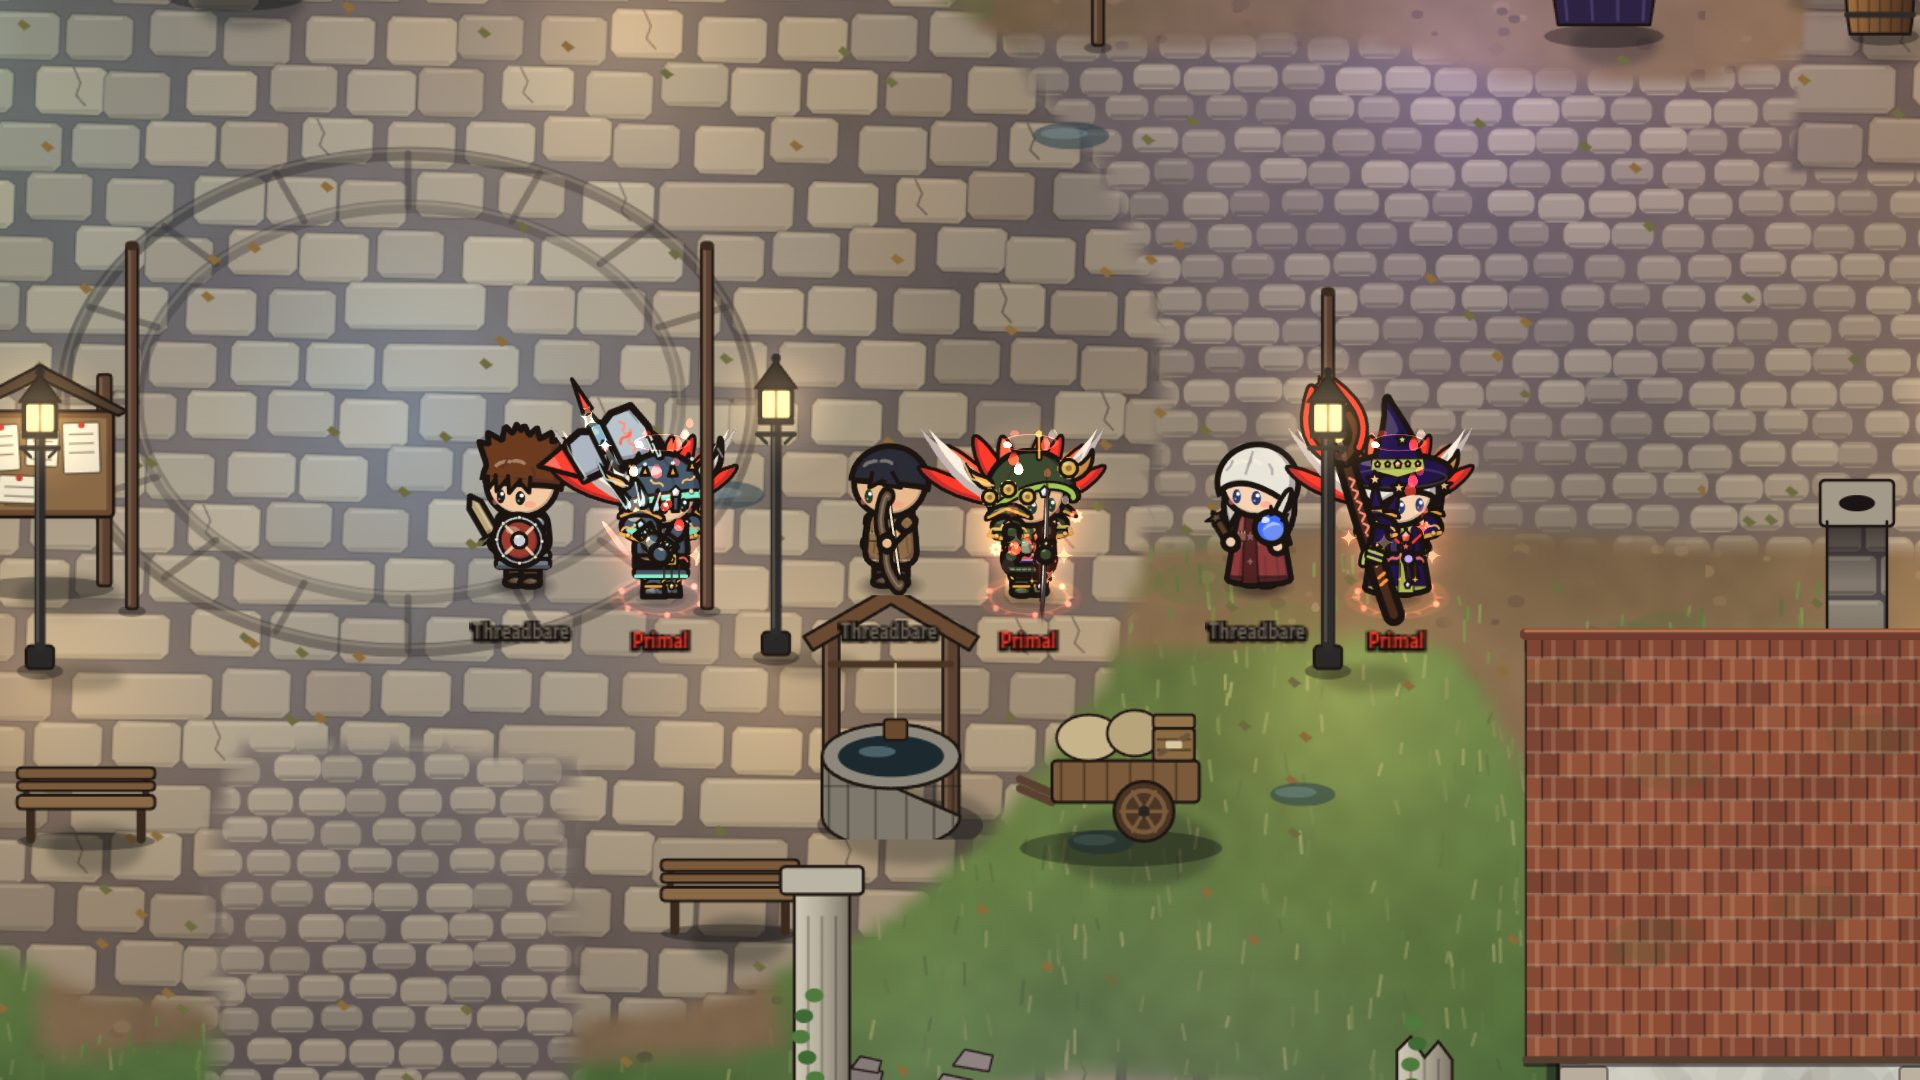
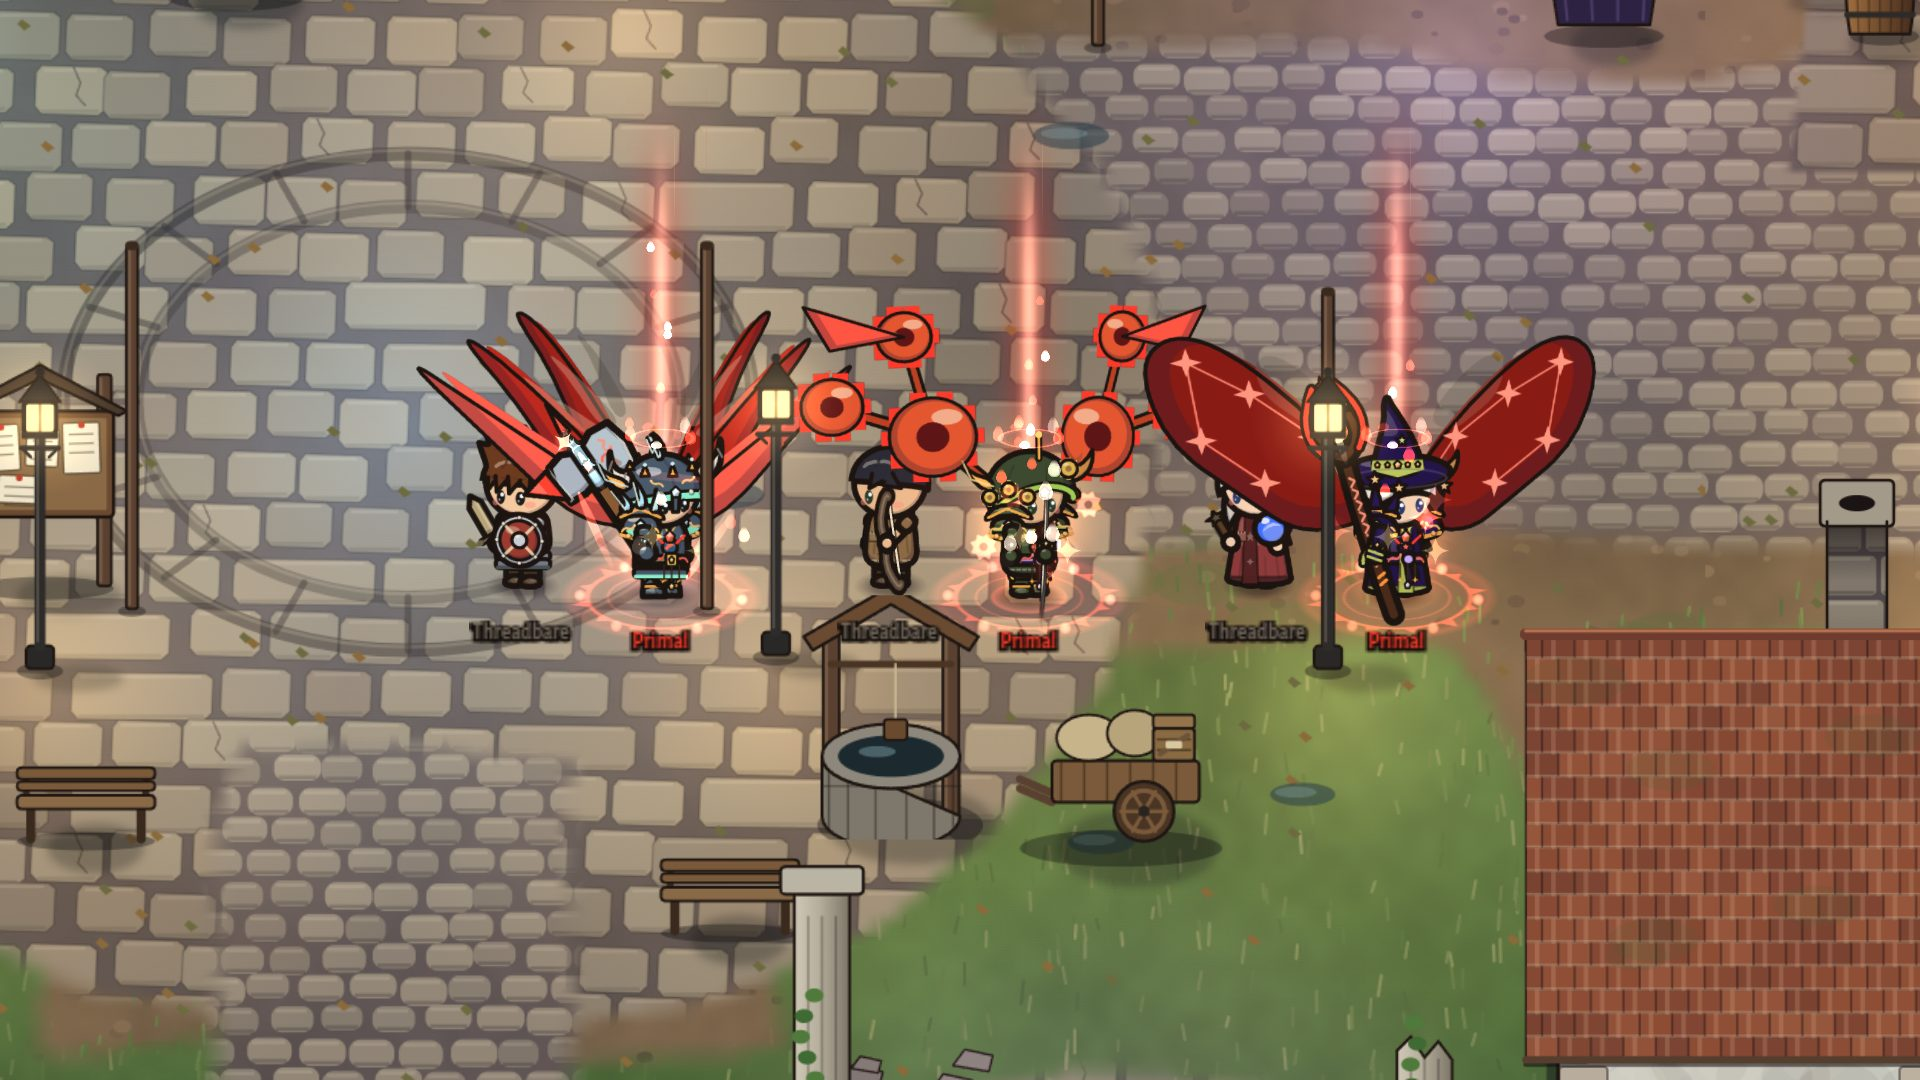
docs(gear): spectacle pass evidence - two clients, field telegraphs, extents, perf
- shots: duo-town (level-1 newcomer beside a Primal veteran, two real
  clients, default camera), duo-edge, duo-rankup, field-telegraphs,
  field-boss; gallery shots retaken with the final visuals (JPEG <= 340 KB)
- LOG G5-G12: measured extents before/after (Primal 187-199 x 280 px vs
  67-76 x 93-123 before; wing span 3.13-3.67x body width), bake probe,
  perf table (30 all-Primal 117-125 fps; 100 heroes rows)
- DESIGN section 7 (spectacle rules), DECISIONS D11-D15

Changed region(s): [[0.2188, 0.1528, 0.8438, 0.6111]]

diff --git a/docs/rework/gear/LOG.md b/docs/rework/gear/LOG.md
@@ -44,3 +44,51 @@ Worktree `C:\Users\LaptopJente\hearthfall-gear`, branch `claude/gear`; server :2
   the old looks (the crowd budget already thins particles; "reduced" for others brings it back to parity). Warm-up:
   100 unique looks appearing in one frame stall for several seconds while sheets bake (as before; the in-game
   scene adds heroes gradually and caches crowded-town poses).
+
+## Spectacle pass (lead review 2026-10-11)
+
+- **G5 — integrated base.** Merged `claude/town-ui-rework` (55b8f78, later 8dcde16) into `claude/gear`; the lead's
+  resolutions of inspect / settings / index / main kept as they were.
+- **G6 — presence at distance.** Wings baked at rank-scaled size (rank 7 1.62×, 8 1.98×, Primal 2.58× the base drawing;
+  Sets keep their silhouette when Primal), capes +14 %/rank, sigil 40→82 u by rank, light column 230 u for rank 8+
+  (saturated normal-blend outer + additive core so it reads on bright stone; first version was invisible above the wings
+  because its strength faded too early — measured with a forced-green probe and a lossless crop, then fixed), afterimage
+  ribbon, larger orbiters, brighter swing trails with tip sparks, nameplate glow pill (6+) and animated crown (8+).
+  **Measured extents** (`gallery-art.html?view=gear-measure`, px at the default camera, yaw 65; visible = alpha > 0.16,
+  includes the column; body = hero without weapon / off-hand / back / effects):
+
+  | stage | before (legacy) visible | after visible | after solid | wing span / body width |
+  |---|---|---|---|---|
+  | starter (all classes) | 50–65 × 89–101 | same | same | — |
+  | L70 (rank 6) | 67–76 × 93–126 | 74–96 × 109–131 | 73–92 × 100–130 | — (cape) |
+  | full Set (rank 7) | 68–76 × 93–123 | 126–131 × 146–157 | 120–124 × 145–156 | 1.94–2.31 |
+  | Ancient Set (rank 8) | 67–76 × 93–123 | 145–153 × 274 | 143–152 × 233 | 2.40–2.80 (yaw 25: 2.21–2.46) |
+  | Primal Set (rank 9) | 67–76 × 93–123 | 187–199 × 280 | 187–197 × 244 | 3.13–3.67 (yaw 25: 2.88–3.17) |
+
+  Targets met: span ≥ 2.2× body width at rank 8 and ≥ 2.6× with a Primal at both measured yaws; sigil ≥ 1.8× the shadow
+  from rank 7 (64 u vs 34 u).
+- **G7 — readability.** Every ground effect moved to a scene underlay beneath the telegraph layer and dims 45 % while the
+  hero fights. Evidence: `shots/field-telegraphs.jpg` (an elite's warning ring stays crisp beside a Primal veteran),
+  `shots/field-boss.jpg` (rift guardian fight).
+- **G8 — the moment.** Rank-up / first full Set: notice (level banner), procedural chime, 1.5 s burst (rings, column,
+  fountain, wing flare) — `shots/duo-rankup.jpg`. Primal drops get their own stinger.
+- **G9 — known problems fixed.** Two-handed idle rests the weapon at the side; next-step hints from the worn gear
+  (`gearNextSteps`, tested); shoulder icons show pauldron ornaments; budgeted bakes (below).
+- **G10 — bakes.** In-game heroes bake on the GPU within 4 ms per frame (placeholder / previous sheet meanwhile).
+  Probe with 100 never-seen heroes appearing in one frame: synchronous vector build 1,359 ms in that frame → none (the
+  remaining first-frame cost is the town NPCs' existing bake); bake work per frame ≤ 4 ms (single-part outliers ≤ 40 ms)
+  instead of 25 ms chunks plus a 2.1 s first chunk; the crowd pops in over ~20–30 s instead of freezing.
+- **G11 — evidence with two real clients.** `scripts/gear-duo.mjs` drives a second client in its own headless window
+  (`api.newClient()` in `shoot.mjs`): `shots/duo-town.jpg` (level-1 newcomer next to a Primal veteran, default camera),
+  `shots/duo-edge.jpg` (veteran at the screen edge), `shots/duo-rankup.jpg`. Debug-only `showcase` op equips the
+  ladder stages. Note: a long-running Vite served a stale transform of `gearVisual.ts` to a fresh tab (missing export);
+  restarting Vite with a clean cache fixed it.
+- **G12 — performance** (perf gallery, visible tab, no monsters, every hero a unique look, after bakes finished):
+
+  | case | before (legacy looks) | after |
+  |---|---|---|
+  | 30 heroes, all Primal, full | 145–163 fps | 117–125 fps (p95 frame 8.8–12.2 ms) |
+  | 30 heroes, mixed stages, full | 145–163 fps | 147–157 fps (p95 frame 12.1 ms) |
+  | 100 heroes, mixed stages, full | 54–68 fps | 54–55 fps |
+  | 100 heroes, all Primal, full | 54–68 fps | 45–48 fps (20–24 before the 16-hero presence budget) |
+  | 100 heroes, all Primal, reduced | 54–68 fps | 37–53 fps |

diff --git a/docs/rework/gear/DESIGN.md b/docs/rework/gear/DESIGN.md
@@ -91,3 +91,26 @@ Reduced = steady glows, sigil, back pieces, no particles, footprints, flapping o
 ornaments stay: they are the item's art). Budget: particles thin out with the number of full-effect heroes on screen
 (constant total ≈ 8 heroes' worth); per hero ≤ 18 particles + ≤ ~30 effect sprites; ornaments are baked into the hero
 sheet (zero per-frame cost).
+
+## 7. Spectacle pass (lead review 2026-10-11: "rank 7-9 only adds ~60 px around a ~100 px hero")
+Goal: an overloaded veteran must be spottable from across the screen in a busy field, newcomer vs veteran clear from
+afar, not only side by side. Everything still comes from the same profile; budget, toggles and readability rules hold.
+
+| Element | Rank | Rule (world units at the default camera: 1 u = 1.31 px) |
+|---|---|---|
+| Wings | 7 / 8 / Primal | drawn at 1.62 / 1.98 / 2.58× the base wing; always spread (far wing ≥ 0.62); full Sets keep their silhouette when Primal (recoloured crimson). Target span ≥ 2.2× body width at 8, ≥ 2.6× Primal: measured 2.21–2.80 and 2.88–3.67 |
+| Cape / mantle | 6 / 7 | +14 % per rank above 6, flares out behind in profile |
+| Ground sigil | 5–9 | 40 / 52 / 64 / 72 / 82 u diameter (≥ 1.8× the 34 u shadow from rank 7), turning slowly; Primal brighter; Set sockets lit per piece |
+| Light column | 8+ | soft additive column ~140 u (2× hero height) in the rank colour; Primal: wider, embers rising along it |
+| Afterimage ribbon | 7+ | soft band (feet → shoulders) along the last 0.32 s of movement, additive, pooled mesh |
+| Orbiters | 4-pc Set, rings 3+ | Set tokens 14–34 u, ring gems 8–14 u |
+| Weapon swings | Storied+ weapon | additive accent trail ×1.35 (×1.6 Ancient+) brightness, sparks shed from the tip (visual only) |
+| Nameplate | 6+ / 8+ | dark pill + rank/Set coloured glow behind a brighter name; rank 8+ animated crown with a travelling glint, Primal flame licks |
+| Rank-up moment | any rank-up (first time this session) or first full Set | notice "Gear rank: …" / "Set complete: …", procedural chime (gear_rank / gear_rank_big), 1.5 s burst: 3 expanding rings, a column of light, a fountain of the motif, wings flare |
+| Primal drop | loot | its own procedural stinger (`primal`) |
+
+Readability: all ground effects (sigil, column, ribbon, footprints, Primal heartbeat, rank-up rings) live in a scene
+underlay **beneath the telegraph layer**, so enemy warnings always draw on top, and they **dim 45 % while the hero is
+fighting** (attacks, casts, hits; 2.5 s), so in combat the warnings dominate and in town the veteran shows off.
+Known problems fixed in the same pass: two-handed idle rests the weapon at the side (head clear), next-step hints
+read what is worn, shoulder icons show pauldron ornaments, new looks bake within 4 ms per frame (no crowd stall).

diff --git a/docs/rework/gear/DECISIONS.md b/docs/rework/gear/DECISIONS.md
@@ -41,6 +41,25 @@ icon (bag, paperdoll, tooltip, merchant, inspect, ground loot) shows the same fr
 **D10 — Character showcase uses the existing preview canvas system.** The class-select preview observer now stays on
 in game (it already destroys previews whose canvas leaves the DOM); a canvas with `data-look` animates any hero look.
 
+**D11 — Bigger is the point (spectacle pass).** Lead review measured too little presence at distance; wing spans of
+2.2–3.7× body width, an 82 u sigil and a 140 u light column were set against that brief, then measured (LOG G6).
+Rollback: the scale constants `wingK` / `backK` (player.ts `backOf`) and `sigilSize` (gearFx.ts).
+
+**D12 — Ground effects beneath telegraphs, dimmed in combat.** A scene underlay below the telegraph layer holds every
+ground effect; while the hero is fighting they drop 45 %. Galleries / previews keep them inside the view.
+
+**D13 — Budgeted GPU bakes for in-game heroes.** 'scene' views bake on the GPU (no readback) within 4 ms per frame and
+show their previous sheet or a class placeholder meanwhile; previews keep canvas sheets (they render elsewhere).
+Trade-off: a crowd of never-seen looks now pops in over seconds instead of stalling for seconds. Rollback: construct
+scene views in 'portable' mode (scene.ts `createView`).
+
+**D14 — Rank-up celebrates the first time per session.** Highest rank and completed Sets are remembered per character
+for the session, so swapping gear back and forth does not replay the moment.
+
+**D15 — Debug `showcase` op.** ENABLE_DEBUG only: puts a gear-ladder stage's items in the bag so evidence characters can
+wear Ancient / Primal / upgraded gear without farming. Not a game rule; disabled on normal servers like every debug op.
+
 **Owner-decision candidates (safe defaults chosen):** tier names (Threadbare … Primal) and the "Next:" hints are
 original placeholders the owner may rename; whether transmog should hide tier (D3); whether other players' effects
-should default to reduced in crowded towns (D8).
+should default to reduced in crowded towns (D8); how big Primal wings may get (D11: ~230 px wide at the default
+camera); whether the rank-up notice should also be announced to the party.
